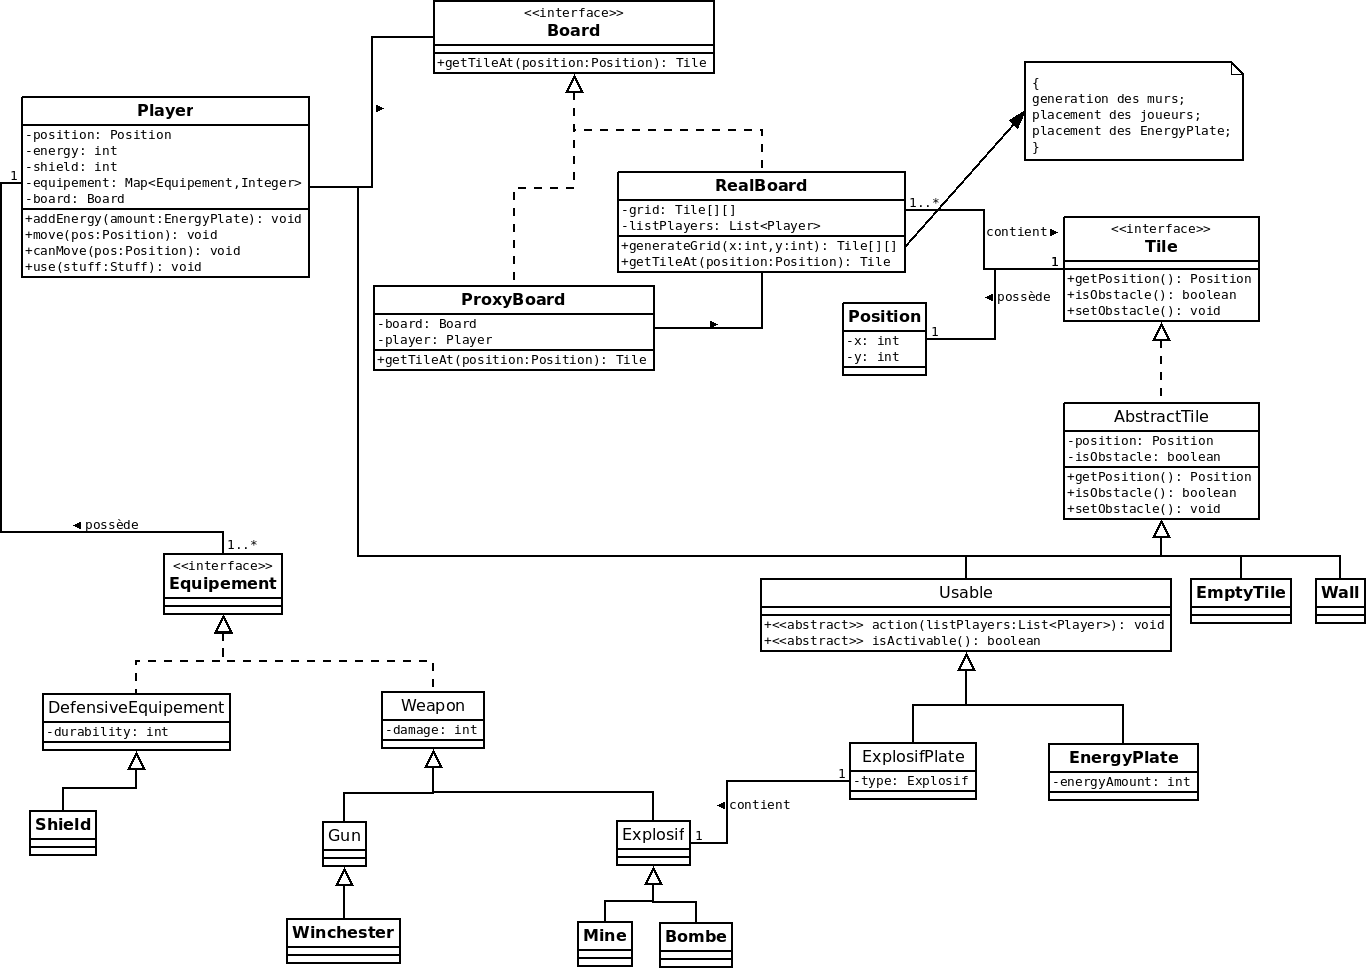
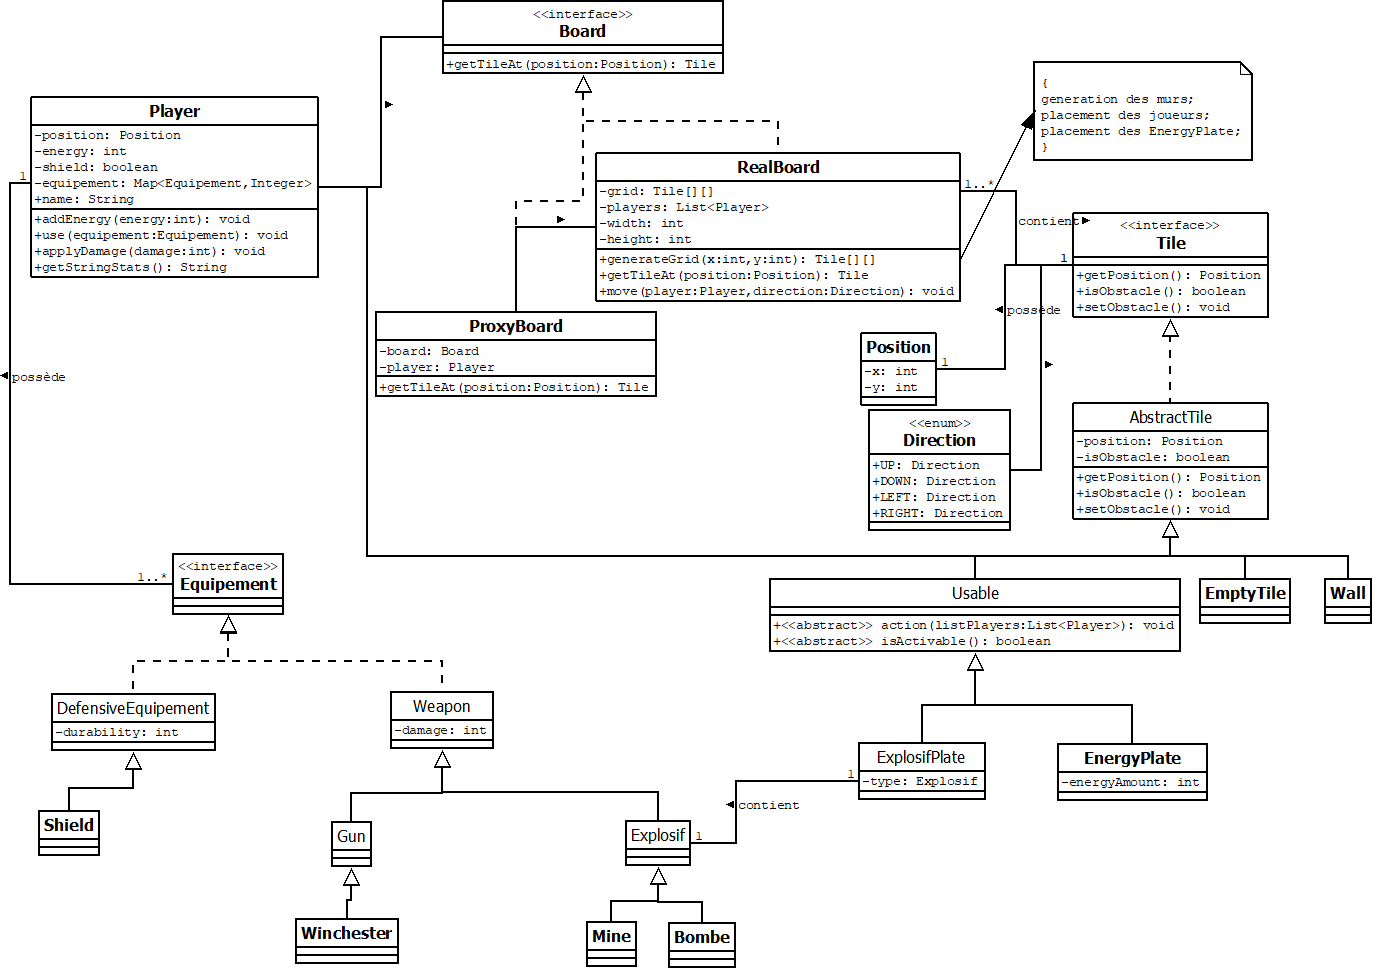
modif du diagramme et suppression de l'argument factory dans RealBoard

diff --git a/livraison/src/game/RealBoard.java b/livraison/src/game/RealBoard.java
@@ -5,12 +5,10 @@ import java.util.*;
 public class RealBoard implements Board {
   private Tile[][] grid;
   private ArrayList<Player> players = new ArrayList<>();;
-  private RobotFactory factory;
   private int width;
   private int height;
 
   public RealBoard(int width, int height, int nbPlayer, RobotFactory factory){
-    this.factory = factory;
     this.width = width;
     this.height = height;
     initGrid(nbPlayer, 20);
